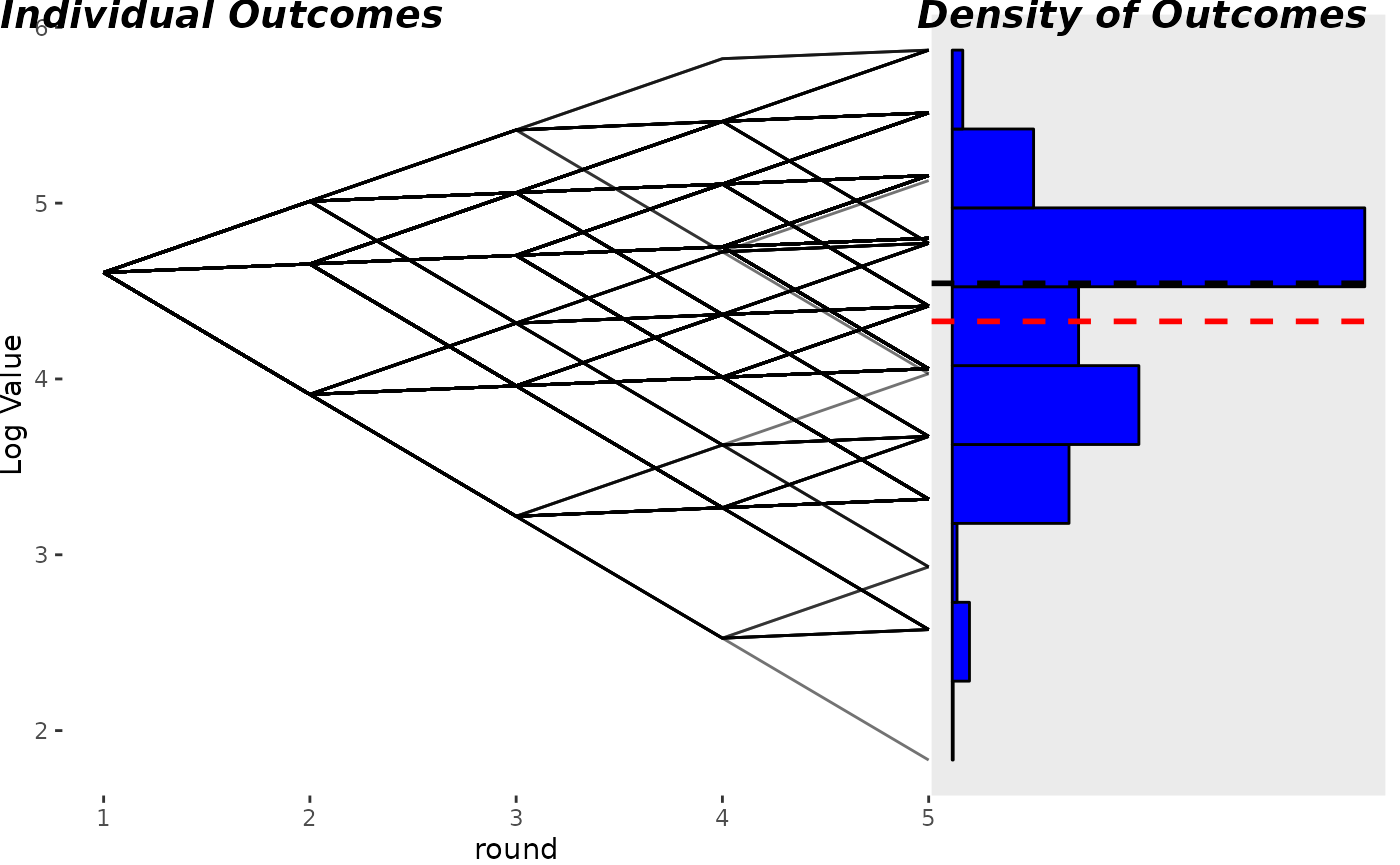
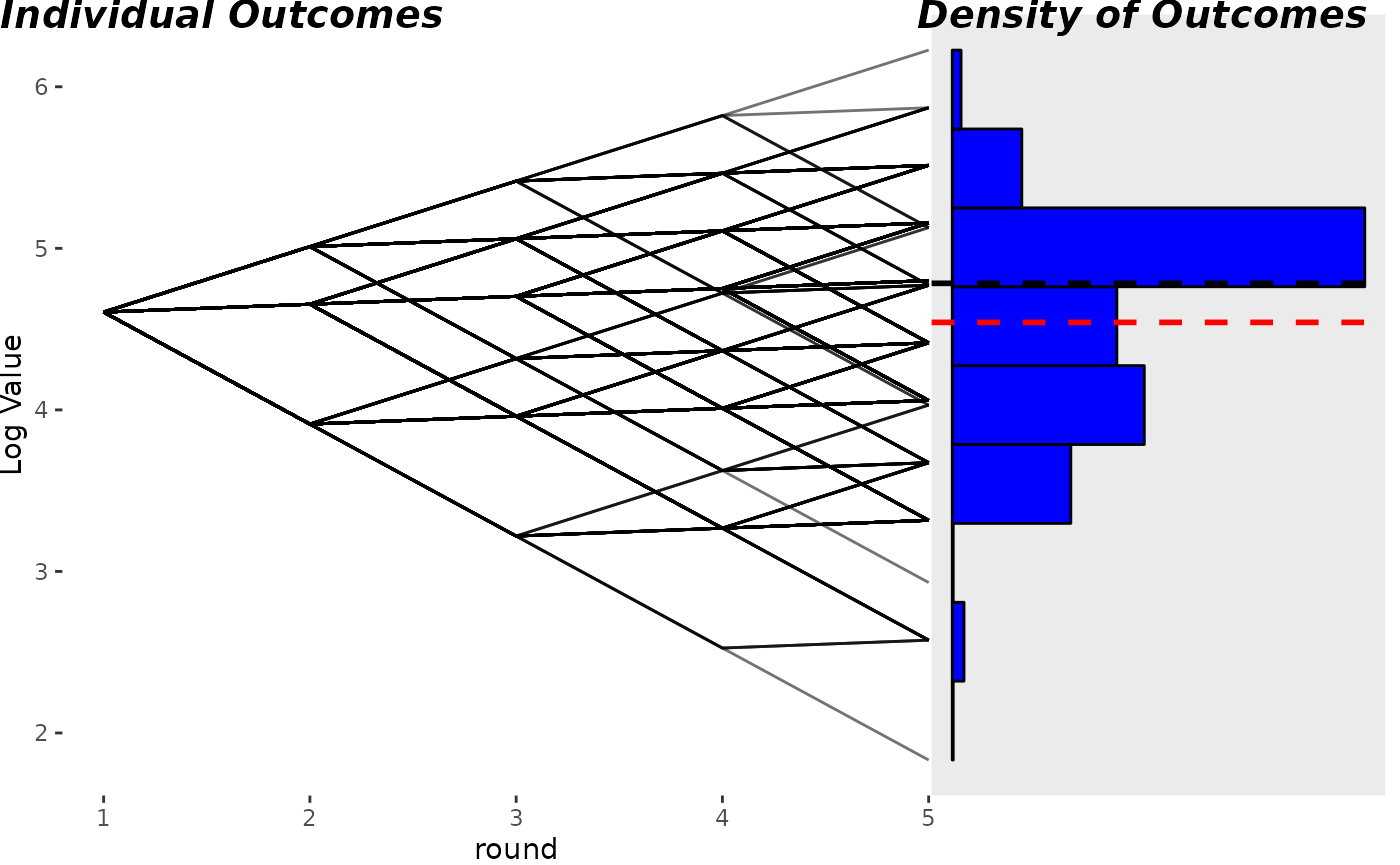
Deploying to gh-pages from @ misikoff/TailRiskAnalyzer@52de23a279fc9fcb20455dd6a1b552ad7258e8ab 🚀

diff --git a/reference/calc_score_for_coin_game.html b/reference/calc_score_for_coin_game.html
@@ -62,7 +62,10 @@
 <span>  tails_factor <span class="op">=</span> <span class="fl">0.5</span>,</span>
 <span>  min_bet <span class="op">=</span> <span class="fl">0</span>,</span>
 <span>  max_payout <span class="op">=</span> <span class="cn">Inf</span>,</span>
-<span>  betting_fraction <span class="op">=</span> <span class="fl">1</span></span>
+<span>  betting_fraction <span class="op">=</span> <span class="fl">1</span>,</span>
+<span>  insurance_payoffs <span class="op">=</span> <span class="fu"><a href="https://rdrr.io/r/base/c.html" class="external-link">c</a></span><span class="op">(</span><span class="fl">0</span>, <span class="fl">1</span><span class="op">)</span>,</span>
+<span>  use_insurance <span class="op">=</span> <span class="cn">FALSE</span>,</span>
+<span>  insurance_cost <span class="op">=</span> <span class="fl">0.1</span></span>
 <span><span class="op">)</span></span></code></pre></div>
     </div>
 
@@ -95,6 +98,19 @@
 <dt>betting_fraction</dt>
 <dd><p>Fraction of funds to bet</p></dd>
 
+
+<dt>insurance_payoffs</dt>
+<dd><p>a list of the payoffs for insurance,
+one for each side of the coin</p></dd>
+
+
+<dt>use_insurance</dt>
+<dd><p>Whether to use insurance</p></dd>
+
+
+<dt>insurance_cost</dt>
+<dd><p>Cost of insurance</p></dd>
+
 </dl></div>
     <div class="section level2">
     <h2 id="value">Value<a class="anchor" aria-label="anchor" href="#value"></a></h2>
@@ -105,8 +121,8 @@
 
     <div class="section level2">
     <h2 id="ref-examples">Examples<a class="anchor" aria-label="anchor" href="#ref-examples"></a></h2>
-    <div class="sourceCode"><pre class="sourceCode r"><code><span class="r-in"><span><span class="fu">calc_score_for_coin_game</span><span class="op">(</span><span class="fl">0</span><span class="op">:</span><span class="fl">1</span>, <span class="fl">100</span>, <span class="fl">2</span>, <span class="fl">0.5</span>, <span class="fl">1</span>, <span class="fl">1000</span>, <span class="fl">0.5</span><span class="op">)</span></span></span>
-<span class="r-out co"><span class="r-pr">#&gt;</span> [1] 100 150</span>
+    <div class="sourceCode"><pre class="sourceCode r"><code><span class="r-in"><span><span class="fu">calc_score_for_coin_game</span><span class="op">(</span><span class="fl">1</span><span class="op">:</span><span class="fl">2</span>, <span class="fl">100</span>, <span class="fl">2</span>, <span class="fl">0.5</span>, <span class="fl">1</span>, <span class="fl">1000</span>, <span class="fl">0.5</span><span class="op">)</span></span></span>
+<span class="r-out co"><span class="r-pr">#&gt;</span> [1] 100.0 150.0 112.5</span>
 </code></pre></div>
     </div>
   </main><aside class="col-md-3"><nav id="toc"><h2>On this page</h2>

diff --git a/articles/kelly.html b/articles/kelly.html
@@ -106,30 +106,11 @@
 <span>    <span class="va">df</span> <span class="op">&lt;-</span> <span class="va">df</span> <span class="op">|&gt;</span> <span class="fu"><a href="https://tibble.tidyverse.org/reference/add_row.html" class="external-link">add_row</a></span><span class="op">(</span>index <span class="op">=</span> <span class="va">i</span>, round <span class="op">=</span> <span class="va">round</span>, value <span class="op">=</span> <span class="va">value</span><span class="op">)</span></span>
 <span>  <span class="op">}</span></span>
 <span><span class="op">}</span></span>
-<span><span class="co">#&gt; Warning in any(toss_results): coercing argument of type 'double' to logical</span></span>
-<span></span>
-<span><span class="co">#&gt; Warning in any(toss_results): coercing argument of type 'double' to logical</span></span>
-<span></span>
-<span><span class="co">#&gt; Warning in any(toss_results): coercing argument of type 'double' to logical</span></span>
-<span></span>
-<span><span class="co">#&gt; Warning in any(toss_results): coercing argument of type 'double' to logical</span></span>
-<span></span>
-<span><span class="co">#&gt; Warning in any(toss_results): coercing argument of type 'double' to logical</span></span>
-<span></span>
-<span><span class="co">#&gt; Warning in any(toss_results): coercing argument of type 'double' to logical</span></span>
-<span></span>
-<span><span class="co">#&gt; Warning in any(toss_results): coercing argument of type 'double' to logical</span></span>
-<span></span>
-<span><span class="co">#&gt; Warning in any(toss_results): coercing argument of type 'double' to logical</span></span>
-<span></span>
-<span><span class="co">#&gt; Warning in any(toss_results): coercing argument of type 'double' to logical</span></span>
-<span></span>
-<span><span class="co">#&gt; Warning in any(toss_results): coercing argument of type 'double' to logical</span></span>
 <span></span>
 <span><span class="co"># get_kelly_bet(0.5, 0.5, 2)</span></span>
 <span></span>
 <span><span class="fu"><a href="../reference/create_side_by_side_plot.html">create_side_by_side_plot</a></span><span class="op">(</span><span class="va">df</span><span class="op">)</span></span>
-<span><span class="co">#&gt; [1] 9.031643</span></span></code></pre></div>
+<span><span class="co">#&gt; [1] 7.563476</span></span></code></pre></div>
 <p><img src="kelly_files/figure-html/unnamed-chunk-2-1.png" width="700"></p>
 <div class="section level2">
 <h2 id="theoretical-distribution-based-on-all-possible-outcomes">Theoretical Distribution, based on all possible outcomes<a class="anchor" aria-label="anchor" href="#theoretical-distribution-based-on-all-possible-outcomes"></a>

diff --git a/reference/coin_toss_seq.html b/reference/coin_toss_seq.html
@@ -63,7 +63,10 @@
 <span>  tails_factor <span class="op">=</span> <span class="fl">0.5</span>,</span>
 <span>  min_bet <span class="op">=</span> <span class="fl">0</span>,</span>
 <span>  max_payout <span class="op">=</span> <span class="cn">Inf</span>,</span>
-<span>  betting_fraction <span class="op">=</span> <span class="fl">1</span></span>
+<span>  betting_fraction <span class="op">=</span> <span class="fl">1</span>,</span>
+<span>  insurance_payoffs <span class="op">=</span> <span class="fu"><a href="https://rdrr.io/r/base/c.html" class="external-link">c</a></span><span class="op">(</span><span class="fl">0</span>, <span class="fl">1</span><span class="op">)</span>,</span>
+<span>  use_insurance <span class="op">=</span> <span class="cn">FALSE</span>,</span>
+<span>  insurance_cost <span class="op">=</span> <span class="fl">0.1</span></span>
 <span><span class="op">)</span></span></code></pre></div>
     </div>
 
@@ -100,6 +103,19 @@
 <dt>betting_fraction</dt>
 <dd><p>Fraction of funds to bet</p></dd>
 
+
+<dt>insurance_payoffs</dt>
+<dd><p>a list of the payoffs for insurance,
+one for each side of the coin</p></dd>
+
+
+<dt>use_insurance</dt>
+<dd><p>Whether to use insurance</p></dd>
+
+
+<dt>insurance_cost</dt>
+<dd><p>Cost of insurance</p></dd>
+
 </dl></div>
     <div class="section level2">
     <h2 id="value">Value<a class="anchor" aria-label="anchor" href="#value"></a></h2>
@@ -112,7 +128,6 @@ toss results (list of coin toss results), and payout (integer)</p>
     <div class="section level2">
     <h2 id="ref-examples">Examples<a class="anchor" aria-label="anchor" href="#ref-examples"></a></h2>
     <div class="sourceCode"><pre class="sourceCode r"><code><span class="r-in"><span><span class="fu">coin_toss_seq</span><span class="op">(</span><span class="fl">10</span>, <span class="fl">0.5</span>, <span class="fl">100</span>, <span class="fl">2</span>, <span class="fl">0.5</span>, <span class="fl">1</span>, <span class="fl">1000</span>, <span class="fl">0.5</span><span class="op">)</span></span></span>
-<span class="r-wrn co"><span class="r-pr">#&gt;</span> <span class="warning">Warning: </span>coercing argument of type 'double' to logical</span>
 <span class="r-out co"><span class="r-pr">#&gt;</span> $results</span>
 <span class="r-out co"><span class="r-pr">#&gt;</span>  [1] 100.0000 150.0000 112.5000  84.3750 126.5625 189.8438 284.7656 427.1484</span>
 <span class="r-out co"><span class="r-pr">#&gt;</span>  [9] 640.7227 480.5420 360.4065</span>

diff --git a/reference/get_coin_game_results.html b/reference/get_coin_game_results.html
@@ -106,12 +106,12 @@ toss results (list of coin toss results), and payout (integer)</p>
 
     <div class="section level2">
     <h2 id="ref-examples">Examples<a class="anchor" aria-label="anchor" href="#ref-examples"></a></h2>
-    <div class="sourceCode"><pre class="sourceCode r"><code><span class="r-in"><span><span class="fu">get_coin_game_results</span><span class="op">(</span><span class="fl">0</span><span class="op">:</span><span class="fl">1</span>, <span class="fl">100</span>, <span class="fl">2</span>, <span class="fl">0.5</span>, <span class="fl">1</span>, <span class="fl">1000</span>, <span class="fl">0.5</span><span class="op">)</span></span></span>
+    <div class="sourceCode"><pre class="sourceCode r"><code><span class="r-in"><span><span class="fu">get_coin_game_results</span><span class="op">(</span><span class="fl">1</span><span class="op">:</span><span class="fl">2</span>, <span class="fl">100</span>, <span class="fl">2</span>, <span class="fl">0.5</span>, <span class="fl">1</span>, <span class="fl">1000</span>, <span class="fl">0.5</span><span class="op">)</span></span></span>
 <span class="r-out co"><span class="r-pr">#&gt;</span> $results</span>
-<span class="r-out co"><span class="r-pr">#&gt;</span> [1] 100 150</span>
+<span class="r-out co"><span class="r-pr">#&gt;</span> [1] 100.0 150.0 112.5</span>
 <span class="r-out co"><span class="r-pr">#&gt;</span> </span>
 <span class="r-out co"><span class="r-pr">#&gt;</span> $payout</span>
-<span class="r-out co"><span class="r-pr">#&gt;</span> [1] 150</span>
+<span class="r-out co"><span class="r-pr">#&gt;</span> [1] 112.5</span>
 <span class="r-out co"><span class="r-pr">#&gt;</span> </span>
 </code></pre></div>
     </div>

diff --git a/reference/calc_score_for_die.html b/reference/calc_score_for_die.html
@@ -61,7 +61,10 @@
 <span>  payoffs <span class="op">=</span> <span class="fu"><a href="https://rdrr.io/r/base/c.html" class="external-link">c</a></span><span class="op">(</span><span class="fl">2</span>, <span class="fl">0.5</span><span class="op">)</span>,</span>
 <span>  min_bet <span class="op">=</span> <span class="fl">0</span>,</span>
 <span>  max_payout <span class="op">=</span> <span class="cn">Inf</span>,</span>
-<span>  betting_fraction <span class="op">=</span> <span class="fl">1</span></span>
+<span>  betting_fraction <span class="op">=</span> <span class="fl">1</span>,</span>
+<span>  insurance_payoffs <span class="op">=</span> <span class="fu"><a href="https://rdrr.io/r/base/c.html" class="external-link">c</a></span><span class="op">(</span><span class="fl">0</span>, <span class="fl">1</span><span class="op">)</span>,</span>
+<span>  use_insurance <span class="op">=</span> <span class="cn">FALSE</span>,</span>
+<span>  insurance_cost <span class="op">=</span> <span class="fl">0.1</span></span>
 <span><span class="op">)</span></span></code></pre></div>
     </div>
 
@@ -90,6 +93,19 @@ representing the sides of each die roll</p></dd>
 
 <dt>betting_fraction</dt>
 <dd><p>Fraction of funds to bet</p></dd>
+
+
+<dt>insurance_payoffs</dt>
+<dd><p>a list of the payoffs for insurance,
+one for each side of the die</p></dd>
+
+
+<dt>use_insurance</dt>
+<dd><p>Whether to use insurance</p></dd>
+
+
+<dt>insurance_cost</dt>
+<dd><p>Cost of insurance</p></dd>
 
 </dl></div>
     <div class="section level2">

diff --git a/reference/die_game_seq.html b/reference/die_game_seq.html
@@ -62,7 +62,10 @@
 <span>  starting_capital <span class="op">=</span> <span class="fl">100</span>,</span>
 <span>  min_bet <span class="op">=</span> <span class="fl">0</span>,</span>
 <span>  max_payout <span class="op">=</span> <span class="cn">Inf</span>,</span>
-<span>  betting_fraction <span class="op">=</span> <span class="fl">1</span></span>
+<span>  betting_fraction <span class="op">=</span> <span class="fl">1</span>,</span>
+<span>  insurance_payoffs <span class="op">=</span> <span class="fu"><a href="https://rdrr.io/r/base/c.html" class="external-link">c</a></span><span class="op">(</span><span class="fl">0</span>, <span class="fl">1</span><span class="op">)</span>,</span>
+<span>  use_insurance <span class="op">=</span> <span class="cn">FALSE</span>,</span>
+<span>  insurance_cost <span class="op">=</span> <span class="fl">0.1</span></span>
 <span><span class="op">)</span></span></code></pre></div>
     </div>
 
@@ -94,6 +97,19 @@
 
 <dt>betting_fraction</dt>
 <dd><p>Fraction of funds to bet</p></dd>
+
+
+<dt>insurance_payoffs</dt>
+<dd><p>a list of the payoffs for insurance,
+one for each side of the die</p></dd>
+
+
+<dt>use_insurance</dt>
+<dd><p>Whether to use insurance</p></dd>
+
+
+<dt>insurance_cost</dt>
+<dd><p>Cost of insurance</p></dd>
 
 </dl></div>
     <div class="section level2">

diff --git a/articles/dice.html b/articles/dice.html
@@ -111,7 +111,7 @@
 <span><span class="op">}</span></span>
 <span></span>
 <span><span class="fu"><a href="../reference/create_side_by_side_plot.html">create_side_by_side_plot</a></span><span class="op">(</span><span class="va">df</span><span class="op">)</span></span>
-<span><span class="co">#&gt; [1] 4.530506</span></span></code></pre></div>
+<span><span class="co">#&gt; [1] 4.524099</span></span></code></pre></div>
 <p><img src="dice_files/figure-html/unnamed-chunk-2-1.png" width="700"></p>
 </div>
 <div class="section level2">
